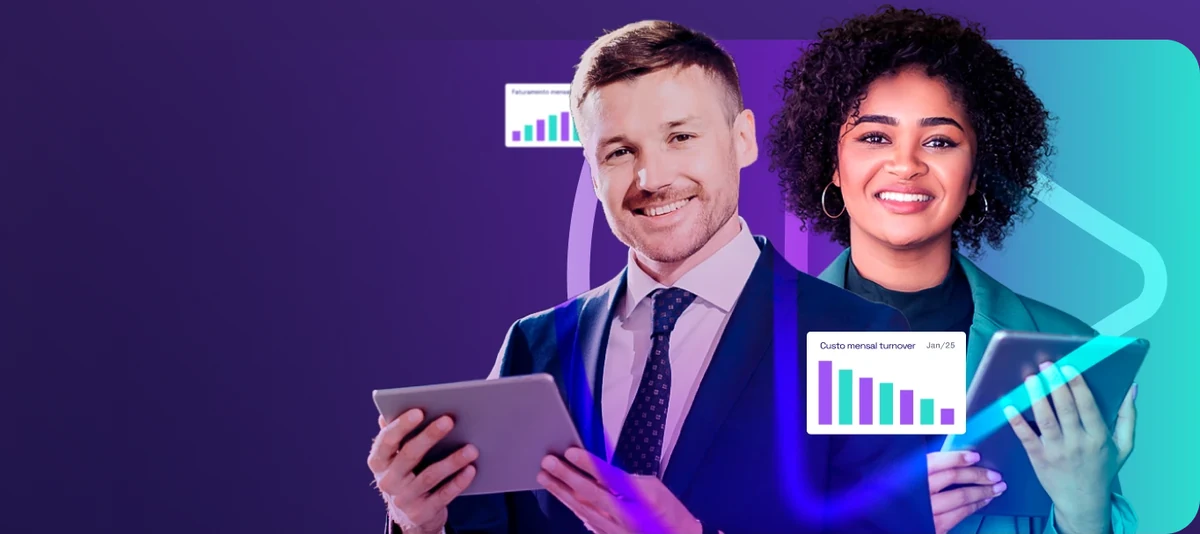
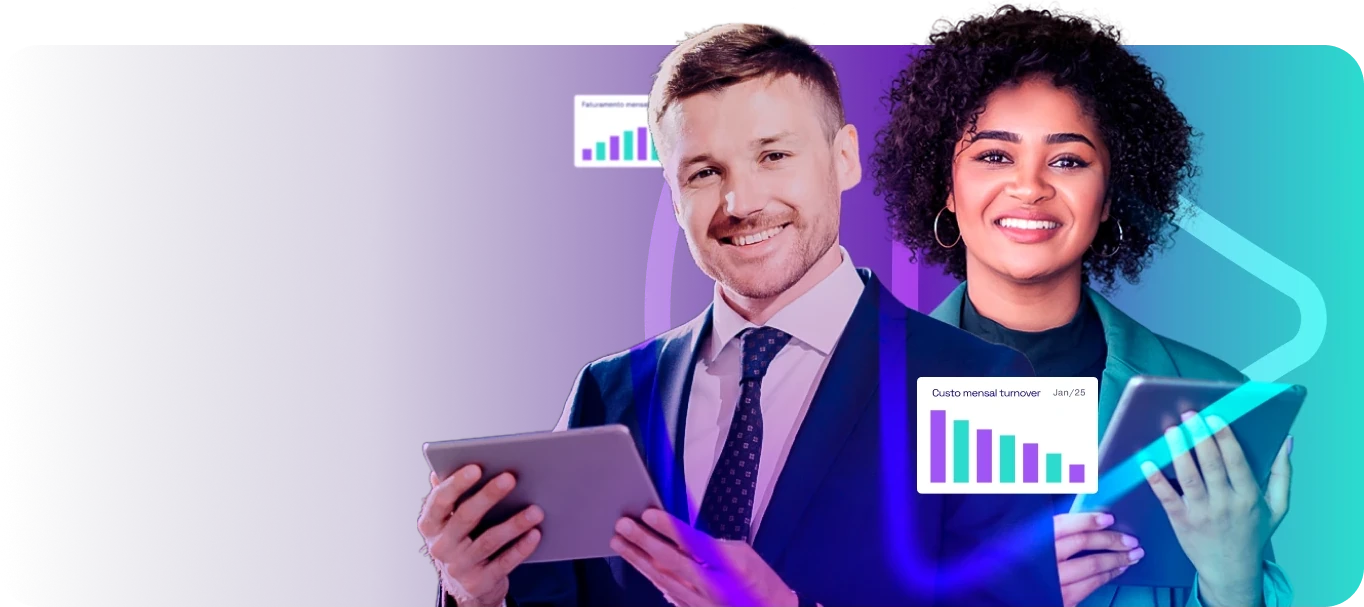
Põe a hero do Academy no escuro, que é onde a ilustração funciona
Eu tinha metido a ilustração num cartão claro e ficou ruim mesmo: 48% da
largura daquela arte é degradê para transparente, feito para dissolver num
fundo escuro. Fechada num cartão sobrava meia imagem de vazio, e o fundo
roxo que inventei para tapar não batia com a arte — dava para ver a emenda.

Tentei recortar só a parte opaca: corta o rosto do homem. Tentei esticar a
cor da própria arte para a esquerda: vira listra.

Então a hero passa a ser escura, como a do site deles já é, e a ilustração
sangra pela direita e some no navio — sem cartão, sem fundo inventado, sem
emenda. Os azuis e o ciano são os da Grou; o roxo que sobra é o da própria
arte. O topo inverte para claro enquanto não há rolagem, senão o menu
sumia no escuro.

No empilhamento a arte não pode entrar no fluxo — ela vem antes do texto no
HTML e empurrava tudo para fora da dobra. Fica ancorada no rodapé da hero.

Contraste conferido: 12,1:1 no menu, 10,3:1 no selo, 11,4:1 no botão.

Claude-Session: https://claude.ai/code/session_01G2pp4icUynWWAfrCkHUWXA

diff --git a/assets/css/grou.css b/assets/css/grou.css
@@ -1985,45 +1985,131 @@ body.gaveta-aberta{overflow:hidden}
   .grade.aca-2col{grid-template-columns:1fr 1fr}
   .grade.aca-3col{grid-template-columns:repeat(3,1fr)}
 }
-/* Números do painel do hero */
-.aca-num{display:grid;grid-template-columns:1fr 1fr;gap:20px 18px}
-.aca-num div{display:flex;flex-direction:column;gap:4px}
-.aca-num b{font-size:clamp(24px,2.8vw,32px);font-weight:200;letter-spacing:-.03em;color:#fff;line-height:1}
-.aca-num span{font-size:12.5px;color:rgba(255,255,255,.6);line-height:1.4}
 /* Bio das mentoras: nome centrado, texto alinhado à esquerda para poder ler */
 .aca-mentora h3{text-align:center}
 .aca-mentora p{text-align:left}
-/* Selo do hero com a fileira de avatares do próprio Grou Academy */
+
+/* =========================================================================
+   GROU ACADEMY — hero escura
+   A ilustração da Academy é uma faixa larga cuja metade esquerda é degradê
+   para transparente, feita para dissolver num fundo escuro. Fechada num
+   cartão claro sobrava vazio; aqui ela sangra pela direita e some no navio,
+   que é como foi desenhada — e é a hero escura que o site deles já tem.
+   ========================================================================= */
+.aca-hero{
+  background:
+    radial-gradient(820px 560px at 88% 20%, rgba(96,58,180,.34), transparent 62%),
+    radial-gradient(700px 520px at 6% 92%, rgb(var(--ciano-rgb) / .12), transparent 58%),
+    linear-gradient(155deg,#0a0733 0%,#130b52 46%,#07033a 100%);
+  color:rgba(255,255,255,.76);
+}
+.aca-hero .hero-grade{display:none}
+.aca-arte{
+  position:absolute;right:-3%;top:50%;transform:translateY(-46%);
+  z-index:1;pointer-events:none;
+  width:min(60%,880px);height:auto;
+  /* a arte corta na cintura: sem isso fica uma linha reta no fim da imagem */
+  -webkit-mask-image:linear-gradient(to bottom,#000 76%,transparent 99%);
+  mask-image:linear-gradient(to bottom,#000 76%,transparent 99%);
+}
+/* No empilhamento a arte não pode entrar no fluxo: ela vem antes do texto no
+   HTML e empurraria tudo para fora da dobra. Fica no rodapé da hero. */
+@media(max-width:959px){
+  .aca-arte{
+    right:-18%;top:auto;bottom:0;transform:none;
+    width:min(150%,700px);
+    -webkit-mask-image:linear-gradient(to bottom,#000 72%,transparent 98%);
+    mask-image:linear-gradient(to bottom,#000 72%,transparent 98%);
+  }
+  .aca-hero{padding-bottom:clamp(180px,42vw,280px)}
+  .aca-hero .hero-cols{align-items:center}
+}
+/* Topo transparente sobre a hero escura: enquanto não há rolagem, o menu
+   inverte para claro; ao ganhar .fixa o fundo claro volta. */
+body:has(.aca-hero) .topo:not(.fixa) .marca{color:#fff}
+body:has(.aca-hero) .topo:not(.fixa) .menu-link{color:rgba(255,255,255,.84)}
+body:has(.aca-hero) .topo:not(.fixa) .menu-link:hover{color:#fff;background:rgba(255,255,255,.12)}
+body:has(.aca-hero) .topo:not(.fixa) .hamburguer{background:rgba(255,255,255,.08);border-color:rgba(255,255,255,.24)}
+body:has(.aca-hero) .topo:not(.fixa) .hamburguer i{background:#fff}
+body:has(.aca-hero) .topo:not(.fixa) .btn-solido{
+  background:rgba(255,255,255,.12);color:#fff;border:1px solid rgba(255,255,255,.28);box-shadow:none}
+body:has(.aca-hero) .topo:not(.fixa) .btn-solido:hover{background:rgba(255,255,255,.2)}
+body:has(.aca-hero) .topo.fixa .aca-marca img{filter:brightness(0) saturate(100%) invert(9%) sepia(72%) saturate(3800%) hue-rotate(245deg)}
+.aca-hero .hero-cols{align-items:flex-start}
+@media(min-width:960px){.aca-hero .hero-copy{max-width:600px;flex:none}}
+.aca-hero h1{color:#fff}
+.aca-hero .lead{color:rgba(255,255,255,.74)}
+.aca-hero .lead b{color:#fff}
+.aca-hero .hero-selo{color:rgba(255,255,255,.55)}
+.aca-hero .hero-selo b{color:#fff}
+.aca-hero .btn-primario{
+  background:var(--ciano);color:var(--azul-noite);
+  box-shadow:0 12px 30px rgb(var(--ciano-rgb) / .3);
+}
+.aca-hero .btn-primario:hover{background:var(--ciano-hover);box-shadow:0 18px 44px rgb(var(--ciano-rgb) / .44)}
+.aca-hero .btn-contorno{color:#fff;background:rgba(255,255,255,.07);border-color:rgba(255,255,255,.26)}
+.aca-hero .btn-contorno:hover{border-color:var(--ciano);background:rgb(var(--ciano-rgb) / .14)}
+
+/* Selo com a fileira de avatares do próprio Grou Academy */
 .aca-selo{
   display:inline-flex;align-items:center;gap:12px;
-  padding:6px 18px 6px 6px;border-radius:40px;
-  background:var(--branco);border:1px solid var(--linha);box-shadow:var(--sombra-s);
-  font-size:14px;color:var(--tinta-suave);
-  margin-bottom:24px;
+  padding:6px 18px 6px 6px;border-radius:40px;margin-bottom:24px;
+  background:rgba(255,255,255,.08);border:1px solid rgba(255,255,255,.18);
+  backdrop-filter:blur(8px);-webkit-backdrop-filter:blur(8px);
+  font-size:14px;color:rgba(255,255,255,.8);
 }
 .aca-selo img{height:34px;width:auto}
-.aca-selo b{color:var(--ciano-texto);font-weight:600}
-@media(max-width:959px){.aca-selo{margin:0 auto}}
-
-/* Ilustração da hero, com o selo de alunos por cima */
-.aca-hero-fig{
-  position:relative;margin:0;border-radius:var(--raio-g);overflow:hidden;
-  box-shadow:var(--sombra-g);
-}
-.aca-hero-fig img{width:100%;height:auto;display:block}
-/* o tom da ilustração puxa para o roxo: o contorno amarra com o resto */
-.aca-hero-fig{border:1px solid rgba(255,255,255,.5)}
-.aca-hero-fig figcaption{
-  position:absolute;left:clamp(14px,3%,24px);bottom:clamp(14px,4%,22px);
-  display:flex;align-items:baseline;gap:8px;
-  background:rgba(255,255,255,.92);backdrop-filter:blur(8px);
-  border-radius:30px;padding:9px 18px;box-shadow:0 10px 30px rgba(12,10,46,.22);
-  font-size:13px;color:var(--tinta-suave);
-}
-.aca-hero-fig figcaption b{font-size:19px;font-weight:300;letter-spacing:-.02em;color:var(--tinta)}
+.aca-selo b{color:var(--ciano);font-weight:600}
+@media(max-width:959px){.aca-selo{margin-left:auto;margin-right:auto}}
 @media(max-width:620px){
-  .aca-hero-fig figcaption{padding:7px 13px;font-size:11.5px;gap:6px}
-  .aca-hero-fig figcaption b{font-size:16px}
   .aca-selo{font-size:12.5px;gap:9px;padding:5px 14px 5px 5px}
   .aca-selo img{height:28px}
+}
+
+/* Marca do Academy no topo e no rodapé (versão branca) */
+.aca-marca img{height:30px;width:auto}
+@media(min-width:760px){.aca-marca img{height:34px}}
+.aca-rod-marca{height:38px;width:auto;margin-bottom:18px}
+
+/* Cartão de curso: etiqueta, título e a ação no rodapé do cartão */
+.aca-curso{display:flex;flex-direction:column;gap:12px}
+.aca-curso h3{font-size:clamp(17px,1.9vw,20px);font-weight:400;letter-spacing:-.02em;line-height:1.25}
+.aca-curso p{flex:1}
+.aca-curso .link-seta{margin-top:4px;align-self:flex-start}
+.aca-tag{
+  align-self:flex-start;
+  font-size:11px;letter-spacing:.16em;text-transform:uppercase;font-weight:500;
+  color:var(--ciano-texto);background:var(--ciano-fundo);
+  border:1px solid rgb(var(--ciano-rgb) / .45);border-radius:20px;padding:5px 12px;
+}
+/* Sem destino no site atual: fica visível, mas não finge ser clicável */
+.link-seta.inerte{color:var(--tinta-tenue);cursor:default}
+
+/* Mentoras: retrato recortado sobre um disco claro */
+.aca-mentora{text-align:center;padding-top:clamp(20px,3vw,28px)}
+.aca-mentora img{
+  width:clamp(130px,17vw,168px);height:auto;margin:0 auto 18px;
+  border-radius:50% 50% 24px 24px;
+  background:radial-gradient(circle at 50% 38%,var(--ciano-fundo),var(--nevoa) 72%);
+}
+.aca-mentora h3{margin-bottom:12px;text-align:center}
+.aca-mentora p{font-size:14px;line-height:1.7;margin-bottom:10px;text-align:left}
+.aca-mentora p:last-child{margin-bottom:0}
+
+/* Depoimentos */
+.aca-dep{display:flex;flex-direction:column;gap:16px}
+.aca-aspas{font-size:54px;line-height:.6;font-weight:600;color:var(--ciano);display:block;height:26px}
+.aca-dep p{flex:1;font-size:15px;line-height:1.72}
+.aca-dep footer{display:flex;flex-direction:column;gap:2px;border-top:1px solid var(--linha);padding-top:14px}
+.aca-dep footer b{font-weight:500;color:var(--tinta);font-size:15px}
+.aca-dep footer span{font-size:12.5px;color:var(--tinta-tenue)}
+
+/* Marca da Grou dentro do painel escuro do "Sobre a Grou" */
+.aca-marca-painel{margin-bottom:18px}
+.aca-logo-grou{height:34px;width:auto;color:#fff}
+
+/* Grades fixas: as formações pedem cartões largos e os depoimentos, 3 colunas */
+@media(min-width:900px){
+  .grade.aca-2col{grid-template-columns:1fr 1fr}
+  .grade.aca-3col{grid-template-columns:repeat(3,1fr)}
 }

diff --git a/academy/index.html b/academy/index.html
@@ -18,7 +18,7 @@
 <link rel="preconnect" href="https://fonts.googleapis.com">
 <link rel="preconnect" href="https://fonts.gstatic.com" crossorigin>
 <link href="https://fonts.googleapis.com/css2?family=Montserrat:wght@300;400;500;600&family=Poppins:wght@200;300;400;500;600&display=swap" rel="stylesheet">
-<link rel="stylesheet" href="/assets/css/grou.css?v=2f88d04e">
+<link rel="stylesheet" href="/assets/css/grou.css?v=b17ee840">
 </head>
 <body>
 <div class="veu" aria-hidden="true"></div>
@@ -27,7 +27,7 @@
 <div class="progresso" aria-hidden="true"></div>
 <header class="topo">
   <nav class="nav" aria-label="Principal">
-    <a class="marca aca-marca" href="/academy/" aria-label="Grou Academy · página inicial"><img src="/assets/img/eco-grou-academy.webp" width="560" height="265" alt="Grou Academy" fetchpriority="high"></a>
+    <a class="marca aca-marca" href="/academy/" aria-label="Grou Academy · página inicial"><img src="/assets/img/academy/marca-branca.webp" width="560" height="265" alt="Grou Academy" fetchpriority="high"></a>
     <ul class="menu">
       <li class="menu-item"><a class="menu-link" href="#cursos">Cursos</a></li>
       <li class="menu-item"><a class="menu-link" href="#mentores">Mentores</a></li>
@@ -57,8 +57,10 @@
 <main id="conteudo-principal">
 
 <!-- ================= HERO ================= -->
-<section class="hero hero-alto">
-  <div class="hero-grade" aria-hidden="true"></div>
+<section class="hero hero-alto aca-hero">
+  <img class="aca-arte" src="/assets/img/academy/hero.webp" width="1364" height="607"
+       alt="Dois profissionais com tablets e painéis de indicadores de RH"
+       fetchpriority="high" decoding="async">
   <div class="hero-interno">
     <div class="hero-cols">
       <div class="hero-copy">
@@ -76,17 +78,12 @@
           <a class="btn btn-primario" href="#cursos">Ver cursos <svg class="seta-btn" width="16" height="16" viewBox="0 0 16 16" fill="none" stroke="currentColor" stroke-width="2" stroke-linecap="round" stroke-linejoin="round" aria-hidden="true"><path d="M2.5 8h11"/><path d="M9 3.5 13.5 8 9 12.5"/></svg></a>
           <a class="btn btn-contorno" href="https://grouacademy.memberkit.com.br/" target="_blank" rel="noopener">Sou aluno</a>
         </div>
+        <div class="hero-selos" data-reveal="up" style="--d:380ms">
+          <span class="hero-selo"><b data-contar="5000" data-pre="+">+5.000</b> alunos já formados</span>
+          <span class="hero-selo"><b data-contar="17">17</b> masterclasses gratuitas</span>
+          <span class="hero-selo"><b>Certificado</b> digital em todas</span>
+        </div>
       </div>
-
-      <div class="hero-visual" data-reveal="right" style="--d:240ms" data-parallax="0.05">
-        <figure class="aca-hero-fig">
-          <img src="/assets/img/academy/hero.webp" width="1160" height="516"
-               alt="Dois profissionais com tablets e painéis de indicadores de RH"
-               fetchpriority="high" decoding="async">
-          <figcaption><b><span data-contar="5000" data-pre="+">+5.000</span></b> alunos já formados</figcaption>
-        </figure>
-      </div>
-
     </div>
   </div>
 </section>

diff --git a/index.html b/index.html
@@ -18,7 +18,7 @@
 <link rel="preconnect" href="https://fonts.googleapis.com">
 <link rel="preconnect" href="https://fonts.gstatic.com" crossorigin>
 <link href="https://fonts.googleapis.com/css2?family=Montserrat:wght@300;400;500;600&family=Poppins:wght@200;300;400;500;600&display=swap" rel="stylesheet">
-<link rel="stylesheet" href="/assets/css/grou.css?v=2f88d04e">
+<link rel="stylesheet" href="/assets/css/grou.css?v=b17ee840">
 <script type="application/ld+json">
 {"@context":"https://schema.org","@type":"Organization","name":"Grou Gestão de Pessoas",
 "url":"https://grougp.com.br/","description":"Um ecossistema de soluções para gestão de pessoas: consulting, tecnologias de assessment, coaching e recrutamento e seleção.",

diff --git a/tecnologias/pda-assessment/index.html b/tecnologias/pda-assessment/index.html
@@ -18,7 +18,7 @@
 <link rel="preconnect" href="https://fonts.googleapis.com">
 <link rel="preconnect" href="https://fonts.gstatic.com" crossorigin>
 <link href="https://fonts.googleapis.com/css2?family=Montserrat:wght@300;400;500;600&family=Poppins:wght@200;300;400;500;600&display=swap" rel="stylesheet">
-<link rel="stylesheet" href="/assets/css/grou.css?v=2f88d04e">
+<link rel="stylesheet" href="/assets/css/grou.css?v=b17ee840">
 <script type="application/ld+json">
 {"@context":"https://schema.org","@type":"Product","name":"PDA Assessment",
 "description":"Avaliação comportamental que mapeia como cada perfil toma decisões, reage sob pressão e se comunica. Mais de 90% de fidedignidade, resultado em 10 minutos.",

diff --git a/404.html b/404.html
@@ -18,7 +18,7 @@
 <link rel="preconnect" href="https://fonts.googleapis.com">
 <link rel="preconnect" href="https://fonts.gstatic.com" crossorigin>
 <link href="https://fonts.googleapis.com/css2?family=Montserrat:wght@300;400;500;600&family=Poppins:wght@200;300;400;500;600&display=swap" rel="stylesheet">
-<link rel="stylesheet" href="/assets/css/grou.css?v=2f88d04e">
+<link rel="stylesheet" href="/assets/css/grou.css?v=b17ee840">
 </head>
 <body>
 <div class="veu" aria-hidden="true"></div>

diff --git a/consulting/assessment-40/index.html b/consulting/assessment-40/index.html
@@ -18,7 +18,7 @@
 <link rel="preconnect" href="https://fonts.googleapis.com">
 <link rel="preconnect" href="https://fonts.gstatic.com" crossorigin>
 <link href="https://fonts.googleapis.com/css2?family=Montserrat:wght@300;400;500;600&family=Poppins:wght@200;300;400;500;600&display=swap" rel="stylesheet">
-<link rel="stylesheet" href="/assets/css/grou.css?v=2f88d04e">
+<link rel="stylesheet" href="/assets/css/grou.css?v=b17ee840">
 </head>
 <body>
 <div class="veu" aria-hidden="true"></div>

diff --git a/consulting/capacitacao-pda/index.html b/consulting/capacitacao-pda/index.html
@@ -18,7 +18,7 @@
 <link rel="preconnect" href="https://fonts.googleapis.com">
 <link rel="preconnect" href="https://fonts.gstatic.com" crossorigin>
 <link href="https://fonts.googleapis.com/css2?family=Montserrat:wght@300;400;500;600&family=Poppins:wght@200;300;400;500;600&display=swap" rel="stylesheet">
-<link rel="stylesheet" href="/assets/css/grou.css?v=2f88d04e">
+<link rel="stylesheet" href="/assets/css/grou.css?v=b17ee840">
 </head>
 <body>
 <div class="veu" aria-hidden="true"></div>

diff --git a/consulting/capacitacoes-e-treinamentos/index.html b/consulting/capacitacoes-e-treinamentos/index.html
@@ -18,7 +18,7 @@
 <link rel="preconnect" href="https://fonts.googleapis.com">
 <link rel="preconnect" href="https://fonts.gstatic.com" crossorigin>
 <link href="https://fonts.googleapis.com/css2?family=Montserrat:wght@300;400;500;600&family=Poppins:wght@200;300;400;500;600&display=swap" rel="stylesheet">
-<link rel="stylesheet" href="/assets/css/grou.css?v=2f88d04e">
+<link rel="stylesheet" href="/assets/css/grou.css?v=b17ee840">
 </head>
 <body>
 <div class="veu" aria-hidden="true"></div>

diff --git a/consulting/devolutiva-pda/index.html b/consulting/devolutiva-pda/index.html
@@ -18,7 +18,7 @@
 <link rel="preconnect" href="https://fonts.googleapis.com">
 <link rel="preconnect" href="https://fonts.gstatic.com" crossorigin>
 <link href="https://fonts.googleapis.com/css2?family=Montserrat:wght@300;400;500;600&family=Poppins:wght@200;300;400;500;600&display=swap" rel="stylesheet">
-<link rel="stylesheet" href="/assets/css/grou.css?v=2f88d04e">
+<link rel="stylesheet" href="/assets/css/grou.css?v=b17ee840">
 </head>
 <body>
 <div class="veu" aria-hidden="true"></div>

diff --git a/consulting/entrevista-competencias/index.html b/consulting/entrevista-competencias/index.html
@@ -18,7 +18,7 @@
 <link rel="preconnect" href="https://fonts.googleapis.com">
 <link rel="preconnect" href="https://fonts.gstatic.com" crossorigin>
 <link href="https://fonts.googleapis.com/css2?family=Montserrat:wght@300;400;500;600&family=Poppins:wght@200;300;400;500;600&display=swap" rel="stylesheet">
-<link rel="stylesheet" href="/assets/css/grou.css?v=2f88d04e">
+<link rel="stylesheet" href="/assets/css/grou.css?v=b17ee840">
 </head>
 <body>
 <div class="veu" aria-hidden="true"></div>

diff --git a/consulting/index.html b/consulting/index.html
@@ -18,7 +18,7 @@
 <link rel="preconnect" href="https://fonts.googleapis.com">
 <link rel="preconnect" href="https://fonts.gstatic.com" crossorigin>
 <link href="https://fonts.googleapis.com/css2?family=Montserrat:wght@300;400;500;600&family=Poppins:wght@200;300;400;500;600&display=swap" rel="stylesheet">
-<link rel="stylesheet" href="/assets/css/grou.css?v=2f88d04e">
+<link rel="stylesheet" href="/assets/css/grou.css?v=b17ee840">
 </head>
 <body>
 <div class="veu" aria-hidden="true"></div>

diff --git a/consulting/lider-360/index.html b/consulting/lider-360/index.html
@@ -18,7 +18,7 @@
 <link rel="preconnect" href="https://fonts.googleapis.com">
 <link rel="preconnect" href="https://fonts.gstatic.com" crossorigin>
 <link href="https://fonts.googleapis.com/css2?family=Montserrat:wght@300;400;500;600&family=Poppins:wght@200;300;400;500;600&display=swap" rel="stylesheet">
-<link rel="stylesheet" href="/assets/css/grou.css?v=2f88d04e">
+<link rel="stylesheet" href="/assets/css/grou.css?v=b17ee840">
 </head>
 <body>
 <div class="veu" aria-hidden="true"></div>
